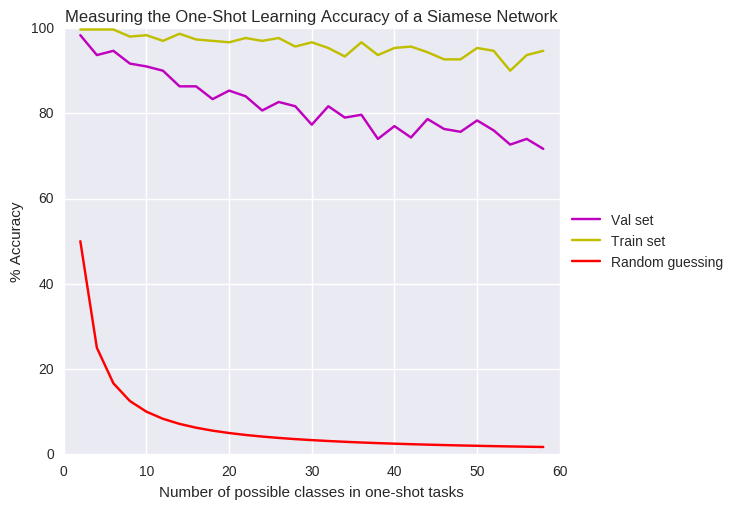
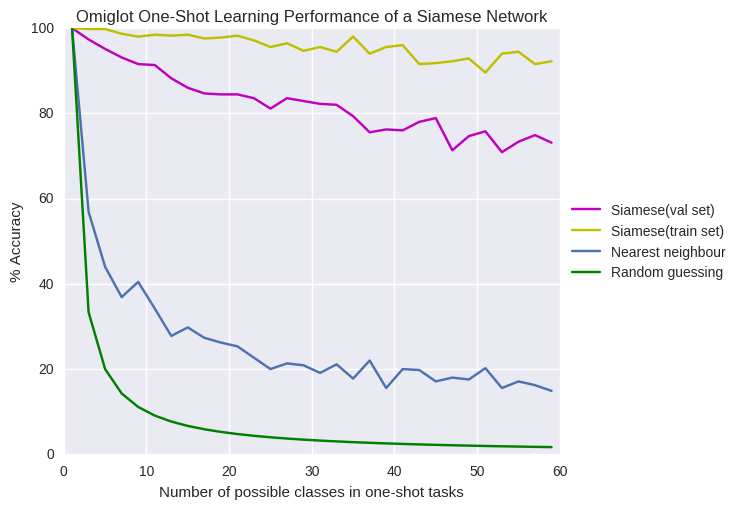
Updated results, added one-shot imitation learning reference, fixed stuff

diff --git a/_posts/blog/2017-02-11-oneshot.md b/_posts/blog/2017-02-11-oneshot.md
@@ -41,13 +41,13 @@ This ability to rapidly learn new ideas from very little data seems like it's ob
 
  I also think this is an important step on the long road towards general intelligence.
 
-Recently there have been [many]("") [interesting]("") [papers]("") about one-shot learning with neural nets and they've gotten some good results. This is a new area that really excites me, so I wanted to make a gentle intoduction to make it more accessible to fellow newcomers to deep learning.
+Recently there have been [many](https://arxiv.org/abs/1703.07326) [interesting]("") [papers]("") about one-shot learning with neural nets and they've gotten some good results. This is a new area that really excites me, so I wanted to make a gentle intoduction to make it more accessible to fellow newcomers to deep learning.
 
 In this post, I want to:
 
 * Introduce and formulate the problem of one-shot learning
 * Describe benchmarks for one-shot classification and give a baseline for performance
-* Give an example of deep one-shot learning by partially reimplementing the model in [this paper]() with keras.
+* Give an example of deep one-shot learning by partially reimplementing the model in [this paper](http://www.cs.cmu.edu/~rsalakhu/papers/oneshot1.pdf) with keras.
 * Hopefully point out some small insights that aren't obvious to everyone
 
 
@@ -193,54 +193,69 @@ Siamese networks, like every other cool neural net architecture, were [originall
 
 [Prefer to just play with a jupyter notebook? I got you fam](https://github.com/sorenbouma/keras-oneshot)
 
-Here is the model definition. I only define the twin network's architecture once as a Sequential() model and then call it with respect to each of two input layers, this way the same parameters are used for both inputs. Then I use merge them together with absolute distance and compile the model with bce loss.
+Here is the model definition, it should be pretty easy to follow if you've seen keras before. I only define the twin network's architecture once as a Sequential() model and then call it with respect to each of two input layers, this way the same parameters are used for both inputs. Then merge them together with absolute distance and add an output layer, and compile the model with binary cross entropy loss.
 
 {% highlight python %}
-from keras.layers import Input, Convolution2D, Lambda, merge, Dense, Flatten,MaxPooling2D
+from keras.layers import Input, Conv2D, Lambda, merge, Dense, Flatten,MaxPooling2D
 from keras.models import Model, Sequential
+from keras.regularizers import l2
 from keras import backend as K
-from keras.optimizers import SGD
+from keras.optimizers import SGD,Adam
+from keras.losses import binary_crossentropy
 import numpy.random as rng
 import numpy as np
+import os
 import dill as pickle
 import matplotlib.pyplot as plt
-
-
+from sklearn.utils import shuffle
 
 def W_init(shape,name=None):
-    values = np.random.normal(loc=0,scale=1e-2,size=shape)
+    """Initialize weights as in paper"""
+    values = rng.normal(loc=0,scale=1e-2,size=shape)
     return K.variable(values,name=name)
-
+#//TODO: figure out how to initialize layer biases in keras.
+def b_init(shape,name=None):
+    """Initialize bias as in paper"""
+    values=rng.normal(loc=0.5,scale=1e-2,size=shape)
+    return K.variable(values,name=name)
 
 input_shape = (105, 105, 1)
 left_input = Input(input_shape)
 right_input = Input(input_shape)
-#build convolutional network to use in each siamese twin
+#build convnet to use in each siamese 'leg'
 convnet = Sequential()
-convnet.add(Convolution2D(64,10,10,activation='relu',input_shape=input_shape,init=W_init))
+convnet.add(Conv2D(64,(10,10),activation='relu',input_shape=input_shape,
+                   kernel_initializer=W_init,kernel_regularizer=l2(2e-4)))
 convnet.add(MaxPooling2D())
-convnet.add(Convolution2D(128,7,7,activation='relu',init=W_init))
+convnet.add(Conv2D(128,(7,7),activation='relu',
+                   kernel_regularizer=l2(2e-4),kernel_initializer=W_init,bias_initializer=b_init))
 convnet.add(MaxPooling2D())
-convnet.add(Convolution2D(128,4,4,activation='relu',init=W_init))
+convnet.add(Conv2D(128,(4,4),activation='relu',kernel_initializer=W_init,kernel_regularizer=l2(2e-4),bias_initializer=b_init))
 convnet.add(MaxPooling2D())
-convnet.add(Convolution2D(256,4,4,activation='relu',init=W_init))
+convnet.add(Conv2D(256,(4,4),activation='relu',kernel_initializer=W_init,kernel_regularizer=l2(2e-4),bias_initializer=b_init))
 convnet.add(Flatten())
-convnet.add(Dense(4096,activation="sigmoid"))
-#get convnet outputs for each input image
+convnet.add(Dense(4096,activation="sigmoid",kernel_regularizer=l2(1e-3),kernel_initializer=W_init,bias_initializer=b_init))
+#encode each of the two inputs into a vector with the convnet
 encoded_l = convnet(left_input)
 encoded_r = convnet(right_input)
-#compute the l1 distance betwen the convnets output for each image
+#merge two encoded inputs with the l1 distance between them
 L1_distance = lambda x: K.abs(x[0]-x[1])
 both = merge([encoded_l,encoded_r], mode = L1_distance, output_shape=lambda x: x[0])
-prediction = Dense(1,activation='sigmoid')(both)
+prediction = Dense(1,activation='sigmoid',bias_initializer=b_init)(both)
 siamese_net = Model(input=[left_input,right_input],output=prediction)
-optimizer = SGD(0.009,momentum=0.6,nesterov=True,decay=0.0003)
+#optimizer = SGD(0.0004,momentum=0.6,nesterov=True,decay=0.0003)
+
+optimizer = Adam(0.00006)
+#//TODO: get layerwise learning rates and momentum annealing scheme described in paperworking
 siamese_net.compile(loss="binary_crossentropy",optimizer=optimizer)
+
+siamese_net.count_params()
+
 {% endhighlight %}
 
 The original paper used layerwise learning rates and momentum -  I skipped this because it; was kind of messy to implement in keras and the hyperparameters aren't the interesting part of the paper.
-Koch et al uses a fixed training set of 150,000 pairs. Since that won't fit in my computers memory, I decided to just randomly sample pairs.
-Here's a class to load image pairs for the network.
+Koch et al adds examples to the dataset by distorting the images and runs experiments with a fixed training set of up to 150,000 pairs. Since that won't fit in my computers memory, I decided to just randomly sample pairs.
+Loading image pairs was probably the hardest part of this to implement. Since there were 20 examples for every class, I reshaped the data into N_classes x 20 x 105 x 105 arrays, to make it easier to index by category.
 
 {% highlight python %}
 class Siamese_Loader:
@@ -303,12 +318,16 @@ class Siamese_Loader:
 
 ### Results
 
-Once the learning curve flattened out, I used the weights which got the best validation 20 way accuracy for testing. Here is a plot of how the accuracy varied across one-shot tasks with different numbers of possible classes. Each data point was the average of 300 random one-shot tasks. My network got ~83% accuracy for tasks from the validation set, compared to 93% in the original paper. I'm guessing this difference is due to 
+Once the learning curve flattened out, I used the weights which got the best validation 20 way accuracy for testing. My network averaged ~83% accuracy for tasks from the validation set, compared to 93% in the original paper. Probably this difference is because I didn't implement many of the performance enhancing tricks from the original paper, like layerwise learning rates/momentum, data augmentation with distortions, bayesian hyperparemeter optimization and I also probably trained for less epochs. I'm not too worried about this because this tutorial was more about introducing one-shot learning in general, than squeezing the last few % performance out of a classifier. There is no shortage of resources on that!
 
+I was curious to see how accuracy varied over different values of "N" in N way one shot learning, so I plotted it, with comparisons to 1 nearest neighbours and training set performance.
+=
 <figure>
 	<a href="{{ site.url }}/images/results1.png" class="image-popup"><img src="{{ site.url }}/images/results1.png" alt="image"></a>
 	<figcaption>Results.</figcaption>
 </figure>
+
+As you can see, it performs worse on tasks from the validaiton set than the train set, especially for high values of N, so there must be overfitting. 
 
 
 ### Discussion
@@ -325,7 +344,11 @@ The omniglot dataset has been around since 2015, and already ML algorithms are g
 Image classification is cool but I don't think it's the most interesting problem in machine learning. Now that we know deep one-shot learning can work pretty good, I think it would be cool to see attempts at one-shot learning for other, more exotic tasks.
 
 Ideas from one-shot learning could be used for more sample efficient reinforcement learning, especially for things like OpenAI's Universe, where there are lots of MDPs/environments that have similar visual features and dynamics. - It would be cool to have an RL agent that could efficiently explore a new environment after learning in similar MDPs.
+
+
 Bringing one-shot learning to NLP tasks is a cool idea too. *Matching Networks for One-Shot learning* has an attempt at one-shot language modeling, filling a missing word in a test sentence given a small set of support sentences, and it seems to work pretty well. Exciting!
 
 
-Anyway, thanks for reading! I hope you've managed to one-shot learn the concept of one-shot learning :) If not, I'd love to answer any questions you have!
+[One-shot Imitation learning](https://arxiv.org/abs/1703.07326) 
+
+Anyway, thanks for reading! I hope you've managed to one-shot learn the concept of one-shot learning :) If not, I'd love to hear feedback or answer any questions you have!
